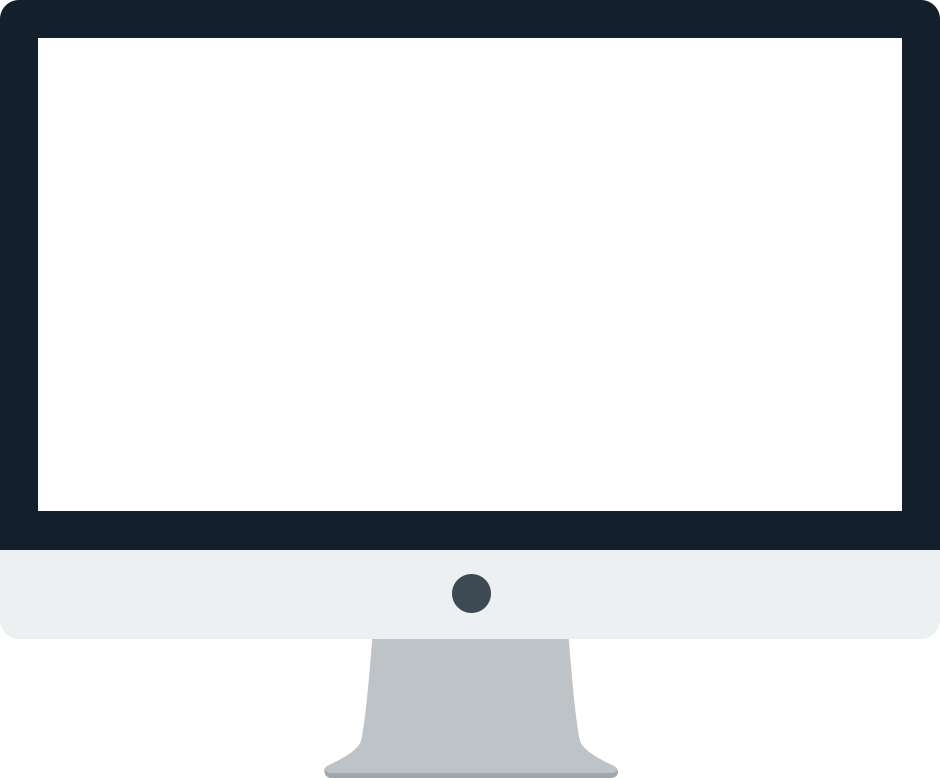
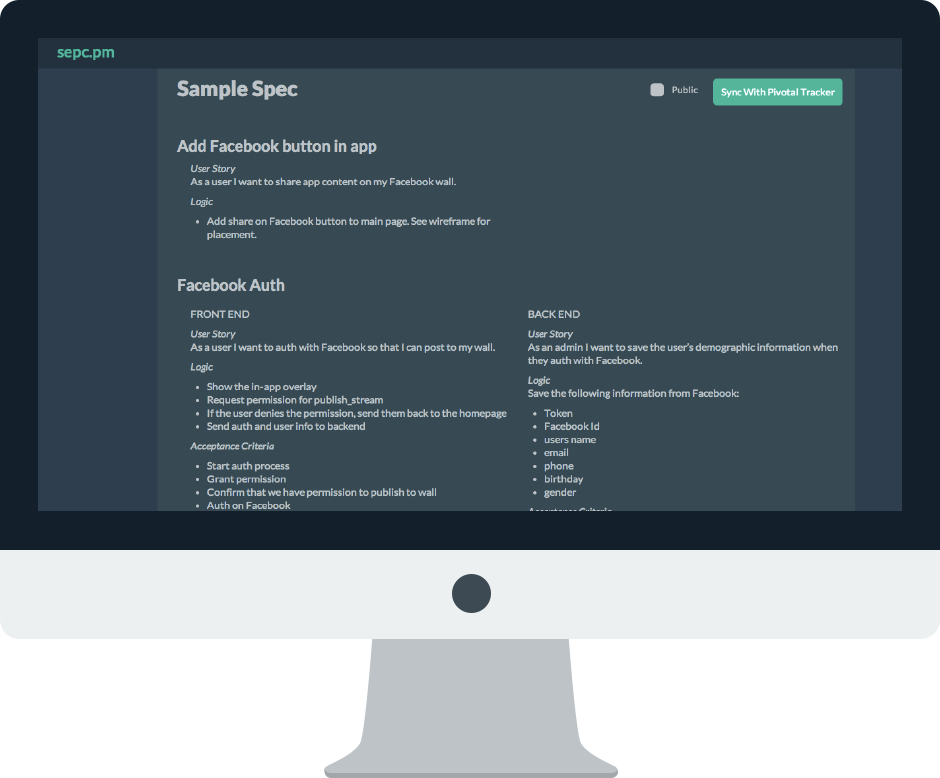
fixed public view.  Started on fixing pivotal sync

diff --git a/app/assets/stylesheets/public.css.scss b/app/assets/stylesheets/public.css.scss
@@ -9,6 +9,7 @@
 
   .demo-logo {
     color: #BDC3C7;
+    margin-bottom: 36px;
     .logo {
       background: url(icon.png) center 0 no-repeat;
       background-size: 261px 113px;
@@ -17,8 +18,6 @@
   }
 
   .demo-headline {
-    padding-right: 17%;
-    padding-left: 17%;
     padding-bottom: 0px;
 
   }
@@ -41,24 +40,11 @@
 
   .imac {
     background: url(imac.png) 0 0 no-repeat;
-    margin-bottom: 0px;
-    padding-bottom: 0px;
-    margin-right: 17%;
-    margin-left: 17%;
-    background-size: 940px 778px;
+    width: 940px;
+    height: 778px;
+    margin: 0 auto;
     color: #BDC3C7;
-    padding: 38px 38px 300px;
     position: relative;
-  }
-
-  .imac-screen {
-    margin-right: 17%;
-    margin-left: 17%;
-    min-height: 317px;
-    padding: 123px 199px 33px 306px;
-  }
-
-  .imac-screen >img {
   }
 
   .public-content {
@@ -67,18 +53,18 @@
 
   .how-it-works {
     background-color: #7F8C8D;
-    padding-right: 17%;
-    padding-left: 17%;
+
   }
 
   footer {
-    padding-right: 17%;
-    padding-left: 17%;
   }
 
   .button {
-    padding-left: 37%;
-    padding-right: 37%;
-    padding-top: 2%;
+    width: 20%;
+    margin: 0 auto;
+  }
+
+  .container{
+   width: 940px;
   }
 }

diff --git a/app/models/pt_client.rb b/app/models/pt_client.rb
@@ -23,17 +23,23 @@ class PTClient
           create_story(page, item, :front_end) unless item.itemizable.front_end.blank?
           create_story(page, item, :back_end) unless item.itemizable.back_end.blank?
         else
-          create_story(page, item)
+          if item.pt_item_infos.empty?
+            create_story(page, item)
+          else
+            update_story(page, item)
+          end
         end
       end
     end
   end
 
+  private
+
   def create_story page, item, description_type = nil
     feature = item.itemizable
     story_params = {
-      project_id: page.pt_info.project_id,
-      story_type: "feature"
+        project_id: page.pt_info.project_id,
+        story_type: "feature"
     }
     story_params = story_params.merge(page.pt_info.separate_front_end_from_back_end? ? separate_story_params(page, feature, description_type) : single_story_params(page, feature))
     http = Curl.post(pt_url(STORIES_URL.gsub("{project_id}", story_params[:project_id].to_s)), story_params.to_json) do |http|
@@ -41,27 +47,41 @@ class PTClient
       http.headers['Content-Type'] = 'application/json'
       http.ssl_verify_peer = false
     end
-    http
+    item.add_pt_item_info(http.body_str)
   end
 
-  private
+  def update_story page, item, description_type = nil?
+    feature = item.itemizable
+    story_params = {
+        project_id: page.pt_info.project_id,
+        story_type: "feature",
+        story_id: item.pt_item_infos.first.story_id
+    }
+    story_params = story_params.merge(page.pt_info.separate_front_end_from_back_end? ? separate_story_params(page, feature, description_type) : single_story_params(page, feature))
+    http = Curl.put(pt_url(STORIES_URL.gsub("{project_id}", story_params[:project_id].to_s)+"/#{story_params[:story_id]}"), story_params.to_json) do |http|
+      http.headers['X-TrackerToken'] = @api_key
+      http.headers['Content-Type'] = 'application/json'
+      http.ssl_verify_peer = false
+    end
+    item.update_pt_item_info(http.body_str)
+  end
 
   def separate_story_params page, feature, description_type
     type_label = description_type.to_s.gsub("_", "")
     {
-      name: feature.title.blank? ? "Untitled #{feature.id} #{type_label}" : "#{feature.title} #{type_label}",
-      labels: [{name: page.name}, {name: type_label}],
-      description: feature.send(description_type)
+        name: feature.title.blank? ? "Untitled #{feature.id} #{type_label}" : "#{feature.title} #{type_label}",
+        labels: [{name: page.name}, {name: type_label}],
+        description: feature.send(description_type)
     }
   end
 
   def single_story_params page, feature
     {
-      name: feature.title.blank? ? "Untitled #{feature.id}" : feature.title,
-      labels: [{
-        name: page.name
-      }],
-      description: "
+        name: feature.title.blank? ? "Untitled #{feature.id}" : feature.title,
+        labels: [{
+                     name: page.name
+                 }],
+        description: "
        FRONTEND
  
        #{feature.front_end}
@@ -69,7 +89,7 @@ class PTClient
        BACKEND
  
        #{feature.back_end}
-      "
+        "
     }
   end
 

diff --git a/db/schema.rb b/db/schema.rb
@@ -11,7 +11,7 @@
 #
 # It's strongly recommended to check this file into your version control system.
 
-ActiveRecord::Schema.define(:version => 20130926133826) do
+ActiveRecord::Schema.define(:version => 20131008142634) do
 
   create_table "dividers", :force => true do |t|
     t.string   "title"
@@ -51,6 +51,13 @@ ActiveRecord::Schema.define(:version => 20130926133826) do
     t.integer  "page_id"
     t.datetime "created_at",                                          :null => false
     t.datetime "updated_at",                                          :null => false
+  end
+
+  create_table "pt_item_infos", :force => true do |t|
+    t.integer  "item_id"
+    t.text     "pt_json"
+    t.datetime "created_at", :null => false
+    t.datetime "updated_at", :null => false
   end
 
   create_table "users", :force => true do |t|

diff --git a/app/models/item.rb b/app/models/item.rb
@@ -6,6 +6,7 @@ class Item < ActiveRecord::Base
 
   belongs_to :itemizable, polymorphic: true, dependent: :destroy
   accepts_nested_attributes_for :itemizable
+  has_many :pt_item_infos, dependent: :destroy
 
   def decrease_position
     update_attribute(:position, position - 1)
@@ -24,4 +25,13 @@ class Item < ActiveRecord::Base
     itemizable_type == "Feature"
   end
 
+  def add_pt_item_info(json)
+    pt_item_infos << PtItemInfo.new(pt_json: json)
+  end
+
+  def update_pt_item_info(json)
+
+  end
+
 end
+

diff --git a/db/migrate/20131008142634_create_pt_item_infos.rb b/db/migrate/20131008142634_create_pt_item_infos.rb
@@ -1,0 +1,10 @@
+class CreatePtItemInfos < ActiveRecord::Migration
+  def change
+    create_table :pt_item_infos do |t|
+      t.integer :item_id
+      t.text :pt_json
+
+      t.timestamps
+    end
+  end
+end

diff --git a/app/models/pt_item_info.rb b/app/models/pt_item_info.rb
@@ -1,0 +1,9 @@
+class PtItemInfo < ActiveRecord::Base
+  attr_accessible :item_id, :pt_json
+
+
+  def story_id
+    JSON.parse(pt_json)["id"]
+  end
+
+end
